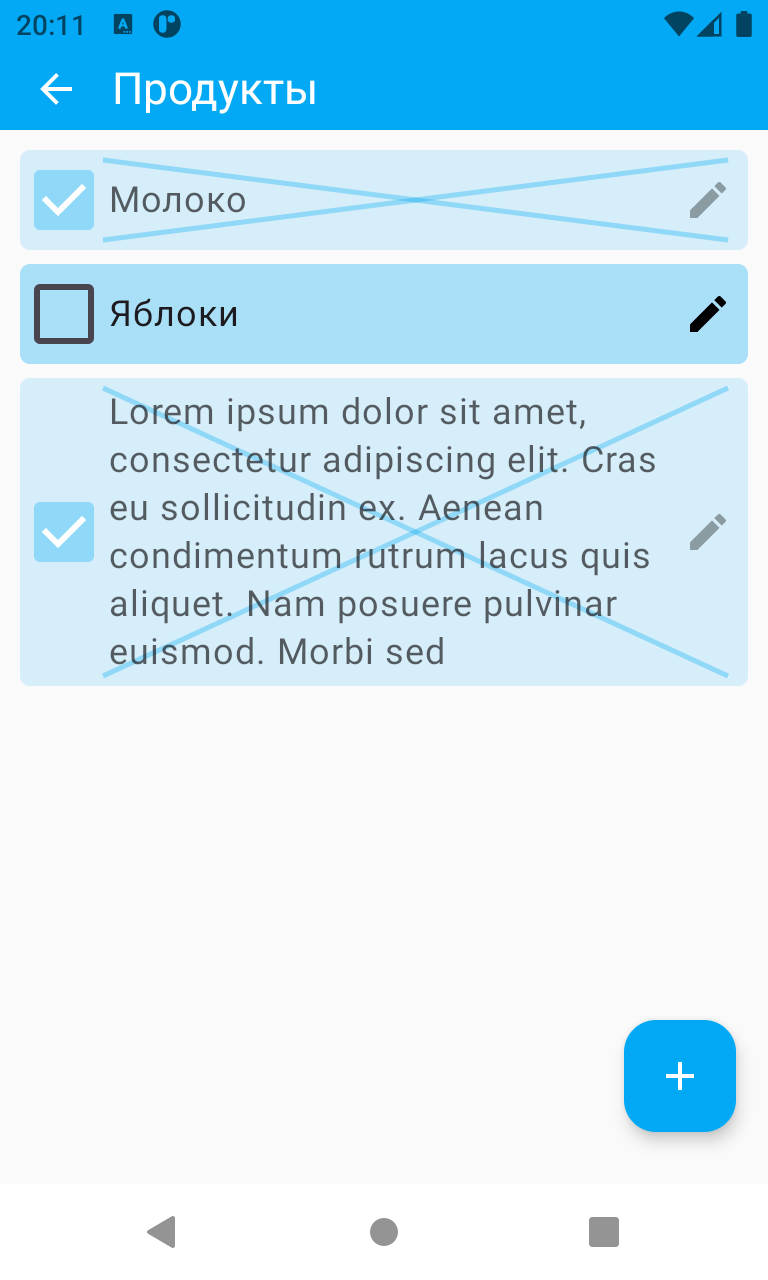
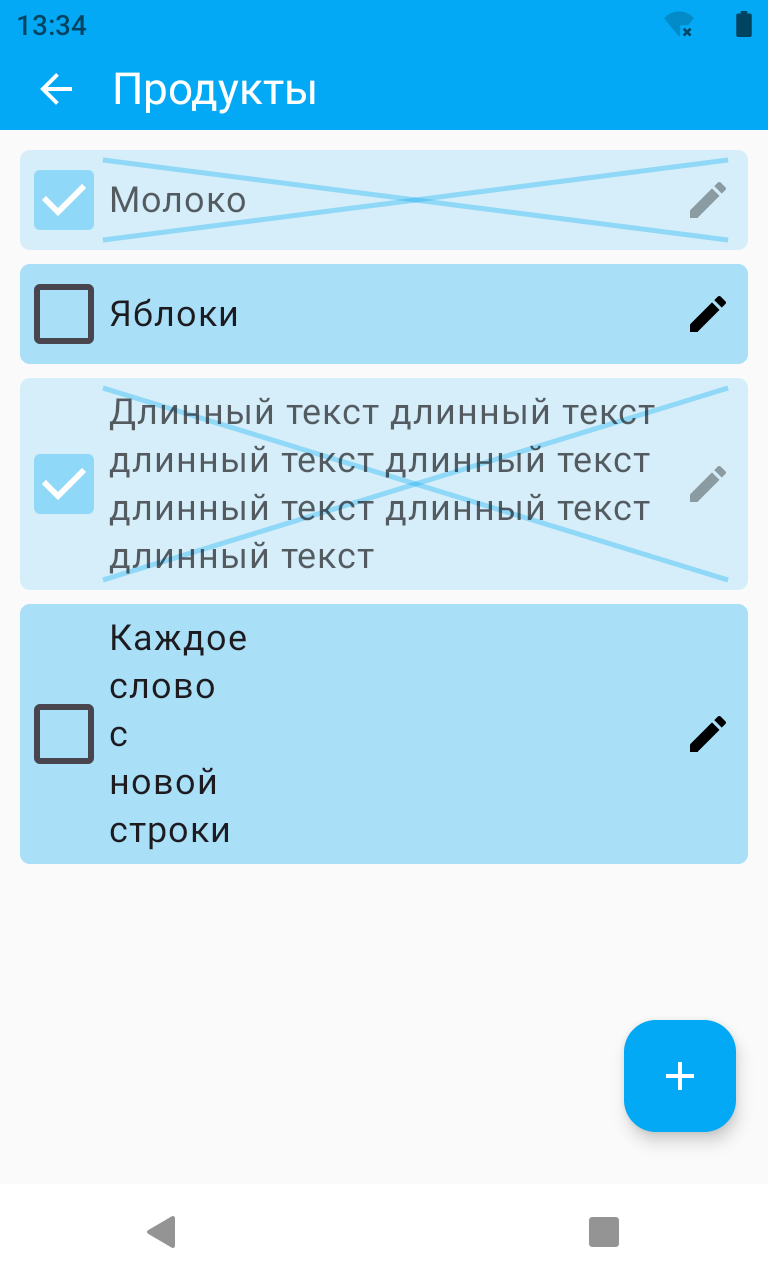
Добавил в карточку списка число сделанных пунктов из числа всех пунктов

diff --git a/app/src/main/java/alexx/rizz/mytodo/feature/todolist/ui/components/TodoLists.kt b/app/src/main/java/alexx/rizz/mytodo/feature/todolist/ui/components/TodoLists.kt
@@ -1,5 +1,6 @@
 package alexx.rizz.mytodo.feature.todolist.ui.components
 
+import alexx.rizz.mytodo.R
 import alexx.rizz.mytodo.feature.todolist.*
 import alexx.rizz.mytodo.feature.todolist.TodoListVM.*
 import alexx.rizz.mytodo.feature.todolist.ui.TodoListScreenCommon.RowPadding
@@ -14,6 +15,8 @@ import androidx.compose.material.icons.filled.*
 import androidx.compose.material3.*
 import androidx.compose.runtime.*
 import androidx.compose.ui.*
+import androidx.compose.ui.res.*
+import androidx.compose.ui.text.*
 import androidx.compose.ui.unit.*
 import sh.calvin.reorderable.*
 
@@ -73,18 +76,31 @@ private fun ReorderableCollectionItemScope.ListRow(
       Modifier.padding(RowPadding),
       verticalAlignment = Alignment.CenterVertically,
     ) {
-      ListText(list.text)
+      Column(modifier = Modifier.weight(1f)) {
+        ListText(list.text)
+        ItemCountText(list.doneCount, list.itemCount)
+      }
       EditButton(onClick = { onEditClick(list.id) })
     }
   }
 }
 
 @Composable
-private fun RowScope.ListText(text: String) {
+private fun ListText(text: String) {
   Text(
-    modifier = Modifier.weight(1f),
     text = text,
     fontSize = 18.sp,
+    lineHeight = 18.sp,
+  )
+}
+
+@Composable
+private fun ItemCountText(doneCount: Int, itemCount: Int) {
+  Text(
+    stringResource(R.string.numberOfNumber, doneCount, itemCount),
+    style = TextStyle(platformStyle = PlatformTextStyle(includeFontPadding = false)),
+    fontSize = 12.sp,
+    color = MyColors.SecondaryCardText,
   )
 }
 

diff --git a/app/src/main/java/alexx/rizz/mytodo/feature/todolist/TodoListDao.kt b/app/src/main/java/alexx/rizz/mytodo/feature/todolist/TodoListDao.kt
@@ -18,15 +18,27 @@ interface TodoListDao {
   @Query("SELECT COUNT(1) FROM todoLists")
   suspend fun count(): Int
 
-  @Query("SELECT * FROM todoLists ORDER BY sordId")
-  fun observeAll(): Flow<List<TodoListEntity>>
+  @Query("SELECT todoLists.*, COALESCE(SUM(todoItems.isDone), 0) doneCount, COUNT(todoItems.id) itemCount FROM todoLists " +
+    "LEFT JOIN todoItems ON todoLists.id = todoItems.listOwnerId " +
+    "GROUP BY todoLists.id " +
+    "ORDER BY sortId")
+  fun observeAll(): Flow<List<TodoListDto>>
 
-  @Query("SELECT * FROM todoLists WHERE id=:id")
-  suspend fun byId(id: TodoListId): TodoListEntity?
+  @Query("SELECT todoLists.*, COALESCE(SUM(todoItems.isDone), 0) doneCount, COUNT(todoItems.id) itemCount FROM todoLists " +
+    "LEFT JOIN todoItems ON todoLists.id = todoItems.listOwnerId " +
+    "WHERE todoLists.id=:id " +
+    "GROUP BY todoLists.id")
+  suspend fun byId(id: TodoListId): TodoListDto?
 
-  @Query("SELECT MAX(sordId) FROM todoLists")
+  @Query("SELECT MAX(sortId) FROM todoLists")
   suspend fun getMaxSortId(): Int
 
-  @Query("UPDATE todoLists SET sordId=:sordId WHERE id=:id")
-  suspend fun updateListOrder(id: TodoListId, sordId: Int)
+  @Query("UPDATE todoLists SET sortId=:sortId WHERE id=:id")
+  suspend fun updateListOrder(id: TodoListId, sortId: Int)
 }
+
+data class TodoListDto(
+  @Embedded val entity: TodoListEntity,
+  val doneCount: Int,
+  val itemCount: Int,
+)

diff --git a/app/src/test/java/alexx/rizz/mytodo/TodoListVmTests.kt b/app/src/test/java/alexx/rizz/mytodo/TodoListVmTests.kt
@@ -59,18 +59,18 @@ class TodoListVmTests : SutTestsBase<TodoListVM>() {
 
   @Test
   fun should_be_SuccessLists_with_lists_from_db() = runTest {
-    mTodoRep.addList(TodoList("list1"))
-    mTodoRep.addList(TodoList("list2"))
+    mTodoRep.addList(TodoList("list1", 0, 0))
+    mTodoRep.addList(TodoList("list2", 0, 0))
 
     sut.screenState.value shouldBe TodoListScreenState.SuccessLists(listOf(
-      TodoList("list1", TodoListId(1)),
-      TodoList("list2", TodoListId(2)),
+      TodoList("list1", 0, 0, TodoListId(1)),
+      TodoList("list2", 0, 0, TodoListId(2)),
     ), ListsTitle)
   }
 
   @Test
   fun should_be_empty_SuccessItems_if_no_items_in_db() = runTest {
-    mTodoRep.addList(TodoList("list1"))
+    mTodoRep.addList(TodoList("list1", 0, 0))
     sut.onUserIntent(TodoListVM.UserIntent.ShowListItems(TodoListId(1)))
 
     sut.screenState.value shouldBe TodoListScreenState.SuccessItems(listOf(), "list1")
@@ -78,7 +78,7 @@ class TodoListVmTests : SutTestsBase<TodoListVM>() {
 
   @Test
   fun should_be_SuccessItems_with_items_from_db() = runTest {
-    mTodoRep.addList(TodoList("list1"))
+    mTodoRep.addList(TodoList("list1", 0, 0))
     mTodoRep.addItem(TodoItem("item1", false, TodoListId(1)))
     mTodoRep.addItem(TodoItem("item2", false, TodoListId(1)))
     sut.onUserIntent(TodoListVM.UserIntent.ShowListItems(TodoListId(1)))

diff --git a/app/src/main/java/alexx/rizz/mytodo/ui/ComposeExtensions.kt b/app/src/main/java/alexx/rizz/mytodo/ui/ComposeExtensions.kt
@@ -1,7 +1,10 @@
 package alexx.rizz.mytodo.ui
 
+import androidx.compose.foundation.layout.*
 import androidx.compose.runtime.*
 import androidx.compose.ui.*
+import androidx.compose.ui.platform.*
+import androidx.compose.ui.unit.*
 
 inline fun Modifier.conditional(
   condition: Boolean,
@@ -17,19 +20,18 @@ inline fun Modifier.conditional(
 fun <T> rememberUpdatedStateMutable(newValue: T): MutableState<T> =
   rememberUpdatedState(newValue) as MutableState
 
-// Может пригодиться
-// @Composable
-// fun PaddingValues.copy(
-//   start: Dp = calculateStartPadding(LocalLayoutDirection.current),
-//   top: Dp = calculateTopPadding(),
-//   end: Dp = calculateEndPadding(LocalLayoutDirection.current),
-//   bottom: Dp = calculateBottomPadding(),
-// ) = PaddingValues(
-//   start = start,
-//   top = top,
-//   end = end,
-//   bottom = bottom
-// )
+@Composable @Suppress("unused")
+fun PaddingValues.copy(
+  start: Dp = calculateStartPadding(LocalLayoutDirection.current),
+  top: Dp = calculateTopPadding(),
+  end: Dp = calculateEndPadding(LocalLayoutDirection.current),
+  bottom: Dp = calculateBottomPadding(),
+) = PaddingValues(
+  start = start,
+  top = top,
+  end = end,
+  bottom = bottom
+)
 
 // Может пригодиться
 // fun Modifier.selectAllOnFocus(input: MutableState<TextFieldValue>): Modifier =

diff --git a/app/src/main/java/alexx/rizz/mytodo/feature/todolist/TodoRepository.kt b/app/src/main/java/alexx/rizz/mytodo/feature/todolist/TodoRepository.kt
@@ -72,7 +72,7 @@ class TodoRepository @Inject constructor(
   override fun observeLists(): Flow<List<TodoList>> =
     mListDao
       .observeAll()
-      .map { entities -> entities.map { it.toDomain() } }
+      .map { entities -> entities.map(TodoListDto::toDomain) }
 
   override suspend fun getListById(id: TodoListId): TodoList? =
     mListDao.byId(id)?.toDomain()
@@ -119,15 +119,17 @@ private fun TodoItem.toEntity(sortId: Int): TodoItemEntity =
     id = this.id,
   )
 
-private fun TodoListEntity.toDomain(): TodoList =
+private fun TodoListDto.toDomain(): TodoList =
   TodoList(
-    id = this.id,
-    text = this.text,
+    text = this.entity.text,
+    doneCount = this.doneCount,
+    itemCount = this.itemCount,
+    id = this.entity.id,
   )
 
 private fun TodoList.toEntity(sortId: Int): TodoListEntity =
   TodoListEntity(
     text = this.text,
-    sordId = sortId,
+    sortId = sortId,
     id = this.id,
   )

diff --git a/app/src/main/java/alexx/rizz/mytodo/feature/todolist/ui/components/TodoItems.kt b/app/src/main/java/alexx/rizz/mytodo/feature/todolist/ui/components/TodoItems.kt
@@ -89,7 +89,7 @@ private fun ReorderableCollectionItemScope.ItemRow(
           animatedCrossScope.launchCrossAnimation(animatedCrossState)
       })
       Spacer(Modifier.width(10.dp))
-      ItemText(item.text, item.isDone)
+      ItemText(Modifier.weight(1f), item.text, item.isDone)
       EditButton(item.isDone, onEditClick)
     }
   }
@@ -113,11 +113,11 @@ private fun DoneCheckBox(
 }
 
 @Composable
-private fun RowScope.ItemText(text: String, isDone: Boolean) {
+private fun ItemText(modifier: Modifier, text: String, isDone: Boolean) {
   Text(
     text,
+    modifier = modifier,
     fontSize = 18.sp,
-    modifier = Modifier.weight(1f),
     color = if (isDone) LocalContentColor.current.copy(alpha = 0.7f) else LocalContentColor.current
   )
 }

diff --git a/app/src/main/java/alexx/rizz/mytodo/feature/todolist/TodoItemDao.kt b/app/src/main/java/alexx/rizz/mytodo/feature/todolist/TodoItemDao.kt
@@ -21,6 +21,12 @@ interface TodoItemDao {
   @Query("SELECT COUNT(1) FROM todoItems")
   suspend fun count(): Int
 
+  @Query("SELECT COUNT(1) FROM todoItems WHERE listOwnerId=:listOwnerId")
+  suspend fun countForList(listOwnerId: TodoListId): Int
+
+  @Query("SELECT COUNT(1) FROM todoItems WHERE listOwnerId=:listOwnerId AND isDone=1")
+  suspend fun countDone(listOwnerId: TodoListId): Int
+
   @Query("SELECT * FROM todoItems WHERE listOwnerId=:listOwnerId ORDER BY sortId")
   fun observeByListOwnerId(listOwnerId: TodoListId): Flow<List<TodoItemEntity>>
 

diff --git a/app/src/main/java/alexx/rizz/mytodo/feature/todolist/ui/TodoListScreenPreview.kt b/app/src/main/java/alexx/rizz/mytodo/feature/todolist/ui/TodoListScreenPreview.kt
@@ -16,7 +16,7 @@ private class TodoListScreenPreviewParameterProvider : PreviewParameterProvider<
       lists = List(20) {
         val i = it + 1
         val text = if (i % 3 == 0) "Lorem Ipsum is simply dummy text of the printing and typesetting industry." else "Todo $i"
-        TodoList(text, TodoListId(i))
+        TodoList(text, 0, 0, TodoListId(i))
       },
     ),
     TodoListScreenState.SuccessItems(

diff --git a/app/src/main/java/alexx/rizz/mytodo/feature/todolist/TodoListVM.kt b/app/src/main/java/alexx/rizz/mytodo/feature/todolist/TodoListVM.kt
@@ -137,7 +137,7 @@ class TodoListVM @Inject constructor(
 
     private suspend fun onConfirmListEditing(intent: UserIntent.ConfirmListEditing) {
       if (intent.id == TodoListId.Unknown)
-        mTodoRep.addList(TodoList(intent.text))
+        mTodoRep.addList(TodoList(intent.text, doneCount = 0, itemCount = 0))
       else
         mTodoRep.updateList(intent.id, intent.text)
       hideEditDialog()

diff --git a/app/src/main/java/alexx/rizz/mytodo/feature/todolist/TodoListEntity.kt b/app/src/main/java/alexx/rizz/mytodo/feature/todolist/TodoListEntity.kt
@@ -5,6 +5,6 @@ import androidx.room.*
 @Entity(tableName = "todoLists")
 data class TodoListEntity(
   val text: String,
-  val sordId: Int,
+  val sortId: Int,
   @PrimaryKey(autoGenerate = true) val id: TodoListId = TodoListId.Unknown,
 )

diff --git a/app/src/main/java/alexx/rizz/mytodo/feature/todolist/TodoList.kt b/app/src/main/java/alexx/rizz/mytodo/feature/todolist/TodoList.kt
@@ -2,6 +2,8 @@ package alexx.rizz.mytodo.feature.todolist
 
 data class TodoList(
   val text: String,
+  val doneCount: Int,
+  val itemCount: Int,
   val id: TodoListId = TodoListId.Unknown,
 )
 

diff --git a/app/src/main/java/alexx/rizz/mytodo/ui/theme/Color.kt b/app/src/main/java/alexx/rizz/mytodo/ui/theme/Color.kt
@@ -10,4 +10,5 @@ object MyColors {
 
   val DoneCard = Primary.copy(alpha = 0.15f)
   val UndoneCard = Primary.copy(alpha = 0.33f)
+  val SecondaryCardText = Color(0xFF506D7B)
 }
